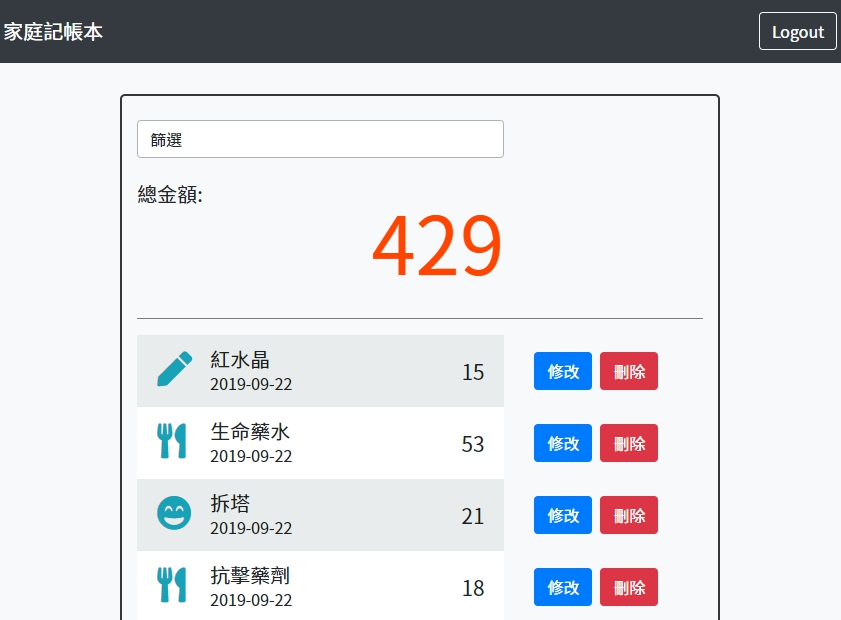
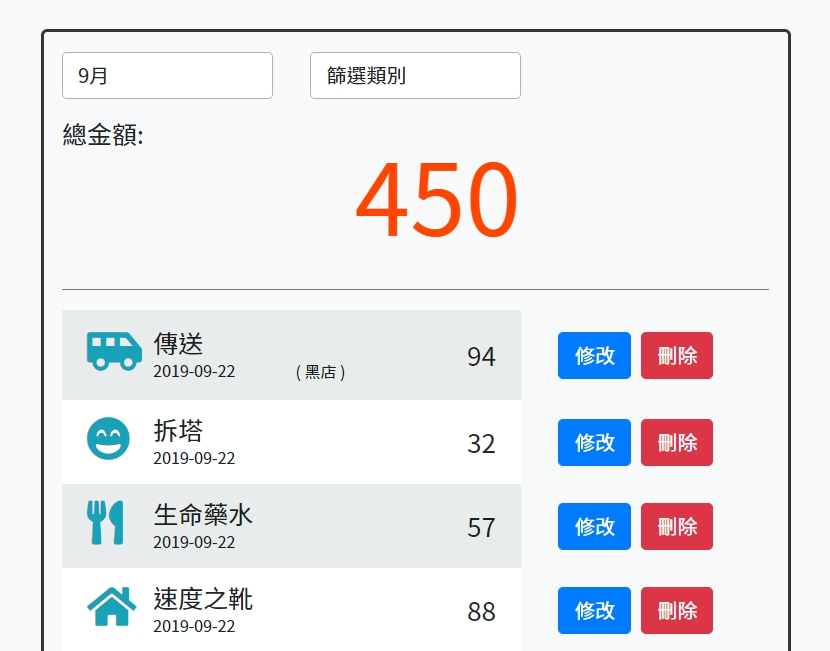
Update commit

diff --git a/README.md b/README.md
@@ -7,10 +7,11 @@
 3. 使用者可以新增一筆支出
 4. 使用者可以編輯支出的內容 (一次只能編輯一筆)
 5. 使用者可以刪除任何一筆支出 (一次只能刪除一筆)
-6. 使用者可以在首頁根據支出「類別」篩選支出
+6. 使用者可以在首頁根據支出「類別」及「月份」交叉篩選支出
 7. 使用者可以透過 email 及 password 註冊並登入
 8. 使用者可以透過 Facebook 帳號登入
 9. 使用者必須登入後才可以建立專屬於自己的支出清單
+10. 使用者可以額外記錄支出商家
 
 ## Preview pages
 ![preview](public/preview.jpg)
